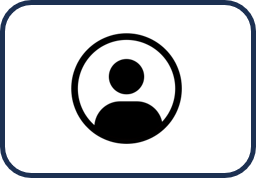
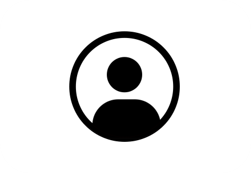
Add MenuBar

diff --git a/src/main/resources/com/example/final_dictionary/TransparentButton.css b/src/main/resources/com/example/final_dictionary/TransparentButton.css
@@ -1,0 +1,7 @@
+.transparent {
+    -fx-border-width: 0;
+    -fx-border-color: transparent;
+    -fx-background-color: transparent;
+    -fx-background-radius: 0;
+    -fx-text-fill: transparent;
+}

diff --git a/src/main/resources/com/example/final_dictionary/SearchBar.css b/src/main/resources/com/example/final_dictionary/SearchBar.css
@@ -1,3 +1,3 @@
 .SearchBar {
-
+background-color: transparent;
 }

diff --git a/src/main/java/com/example/final_dictionary/MenuButtonController.java b/src/main/java/com/example/final_dictionary/MenuButtonController.java
@@ -1,0 +1,56 @@
+package com.example.final_dictionary;
+
+import javafx.fxml.FXML;
+import javafx.fxml.Initializable;
+import javafx.geometry.Point2D;
+import javafx.geometry.Rectangle2D;
+import javafx.scene.control.Button;
+import javafx.scene.effect.Light;
+import javafx.scene.image.ImageView;
+import javafx.scene.input.MouseEvent;
+import javafx.scene.layout.AnchorPane;
+import javafx.scene.shape.Rectangle;
+
+import java.net.URL;
+import java.util.*;
+
+public class MenuButtonController implements Initializable {
+    @FXML
+    private Button settingButton = new Button();
+    @FXML
+    private Button AcoountButton = new Button();
+    @FXML
+    private Button ggTransButton = new Button();
+    @FXML
+    private Button folderButton = new Button();
+    @FXML
+    private Button homeButton = new Button();
+
+    public MenuButtonController() {
+
+    }
+
+    @Override
+    public void initialize(URL url, ResourceBundle resourceBundle) {
+
+    }
+
+//    public boolean checkPointInRect(Point2D p, Button button) {
+//        Rectangle2D rect = new Rectangle2D(button.getLayoutX(), button.getLayoutY(),
+//                button.getWidth(), button.getHeight());
+//        return p.getX() >= rect.getMinX() && p.getX() <= rect.getMaxX()
+//                && p.getY() >= rect.getMinY() && p.getY() <= rect.getMaxY();
+//    }
+//
+//    @FXML
+//    public void controlButton(MouseEvent mouseEvent) {
+//        Point2D mouseCoordinate = new Point2D(mouseEvent.getX(), mouseEvent.getY());
+//        if (checkPointInRect(mouseCoordinate, settingButton)) {
+//            settingButton.setDisable(false);
+//            settingButton.setVisible(true);
+//        } else {
+//            settingButton.setDisable(true);
+//            settingButton.setVisible(false);
+//        }
+//    }
+}

diff --git a/src/main/java/com/example/final_dictionary/Main.java b/src/main/java/com/example/final_dictionary/Main.java
@@ -18,7 +18,7 @@ public class Main extends Application {
 
     @Override
     public void start(Stage primaryStage) throws IOException {
-        Parent root = FXMLLoader.load(Objects.requireNonNull(getClass().getResource("HomeInterface.fxml")));
+        Parent root = FXMLLoader.load(Objects.requireNonNull(getClass().getResource("MenuBar.fxml")));
         Scene scene = new Scene(root);
         primaryStage.setScene(scene);
         primaryStage.show();

diff --git a/src/main/java/module-info.java b/src/main/java/module-info.java
@@ -6,6 +6,9 @@ module com.example.final_dictionary {
     requires com.dlsc.formsfx;
     requires org.kordamp.bootstrapfx.core;
     requires java.sql;
+    requires voicerss.tts;
+    requires java.desktop;
+    requires freetts;
 
     opens com.example.final_dictionary to javafx.fxml;
     exports com.example.final_dictionary;

diff --git a/src/main/java/com/example/final_dictionary/GeneralController.java b/src/main/java/com/example/final_dictionary/GeneralController.java
@@ -1,0 +1,4 @@
+package com.example.final_dictionary;
+
+public class GeneralController {
+}
